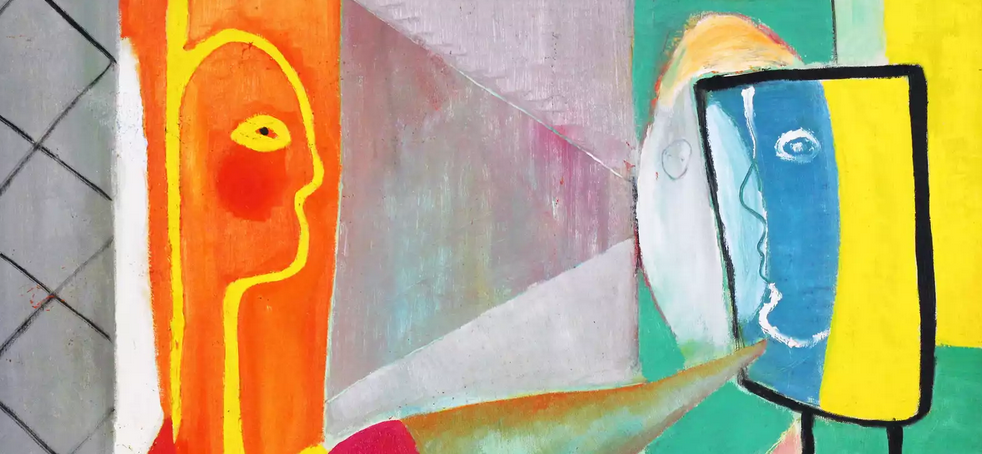
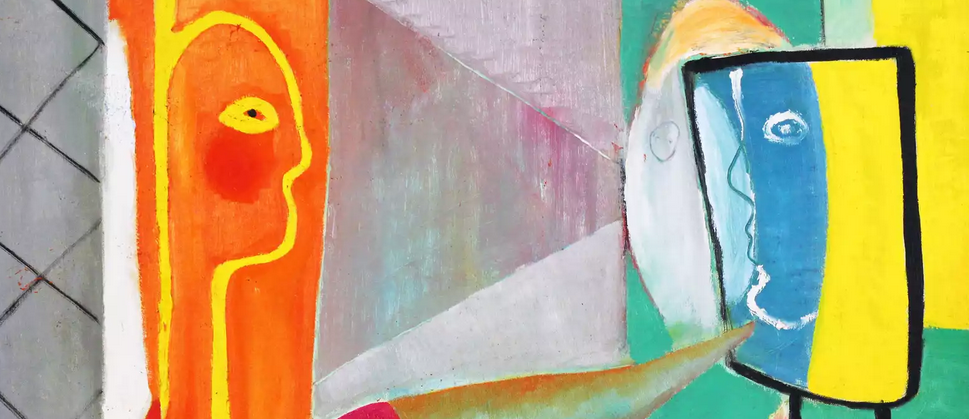
centering

diff --git a/_pages/cs2731_fall2023.md b/_pages/cs2731_fall2023.md
@@ -4,9 +4,11 @@ title: CS 2731 Introduction to Natural Language Processing, Fall 2023
 permalink: /cs2731_fall2023/
 ---
 
-# CS 2731 Introduction to Natural Language Processing
+<!--![banner art](peter_miller_communication_cropped.png)-->
+<img align="center" alt="banner art" src="peter_miller_communication_cropped.png" />
 
-![banner art](peter_miller_communication_cropped.png)
+<center>
+# CS 2731 Introduction to Natural Language Processing
 
 University of Pittsburgh | Fall 2023
 ---|---
@@ -18,6 +20,7 @@ Office hours | W 1:30-2:30pm and by appointment, Sennott Square 6505
 TA | *TBD*
 TA contact | *TBD*
 Textbook | [J+M] [Jurafsky and Martin, *Speech and Language Processing*, 3e draft, 2023-01-07](https://web.stanford.edu/~jurafsky/slp3/) (free online)
+</center>
 
 ## Schedule
 *Subject to change. Last revised 2023-08-27. All due dates are at 11:59pm ET that day except when indicated (reading quizzes and discussion posts due at 12pm).*
